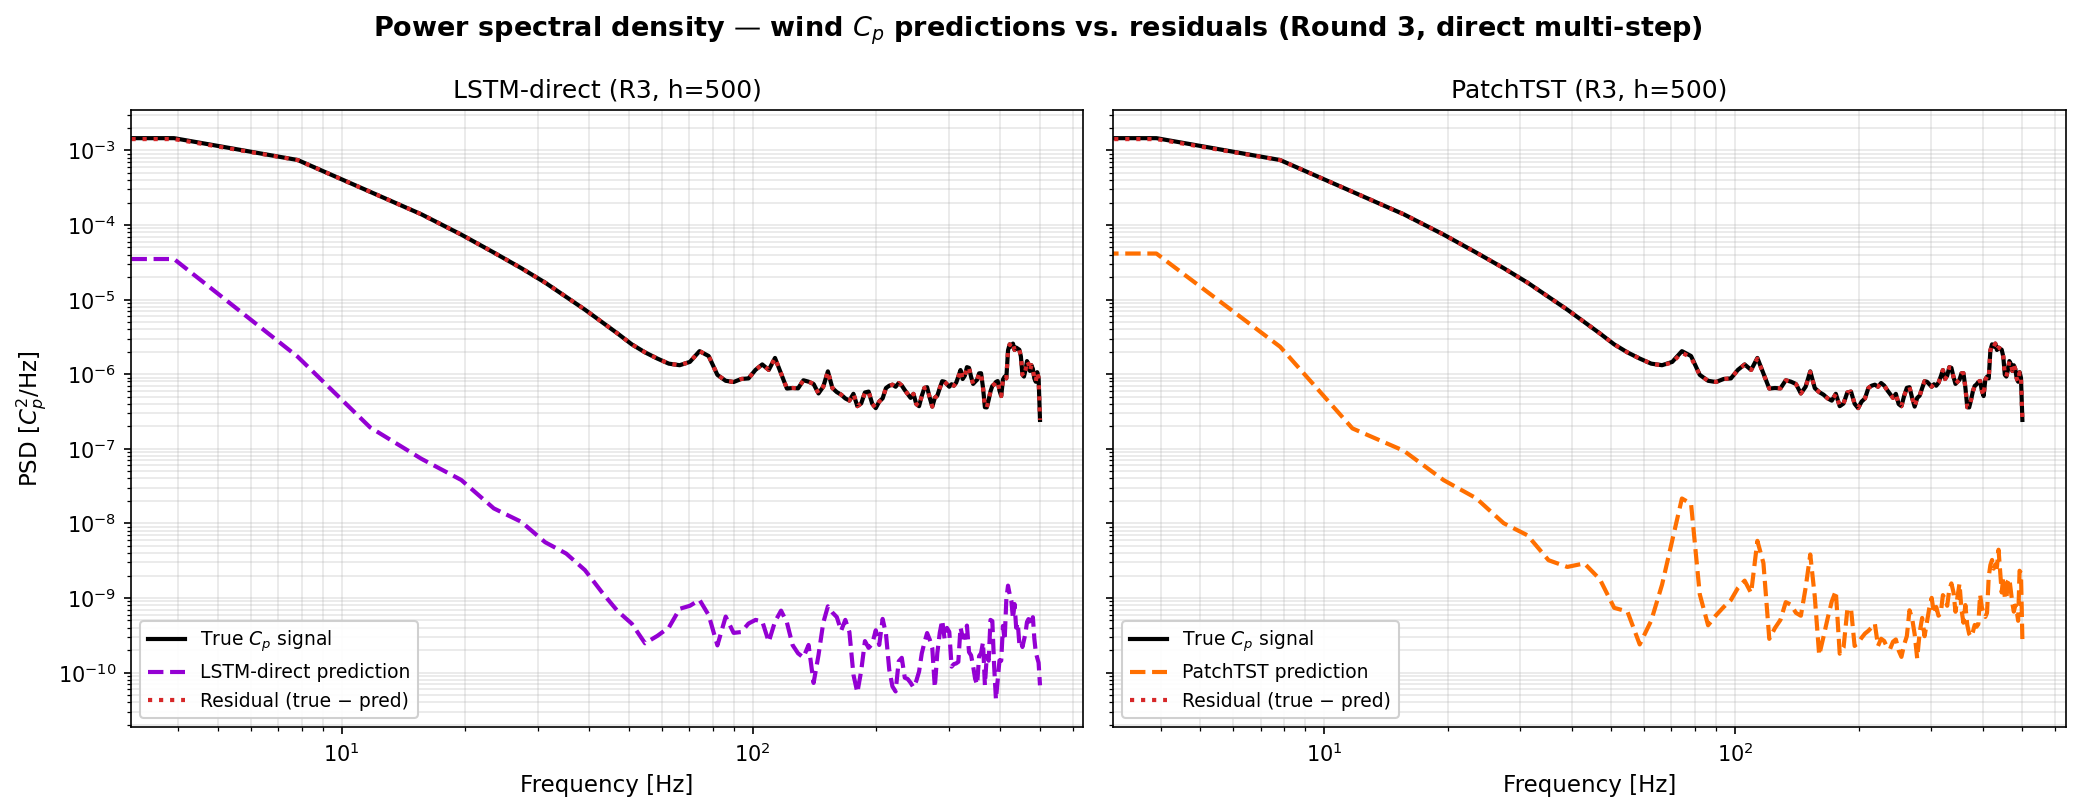
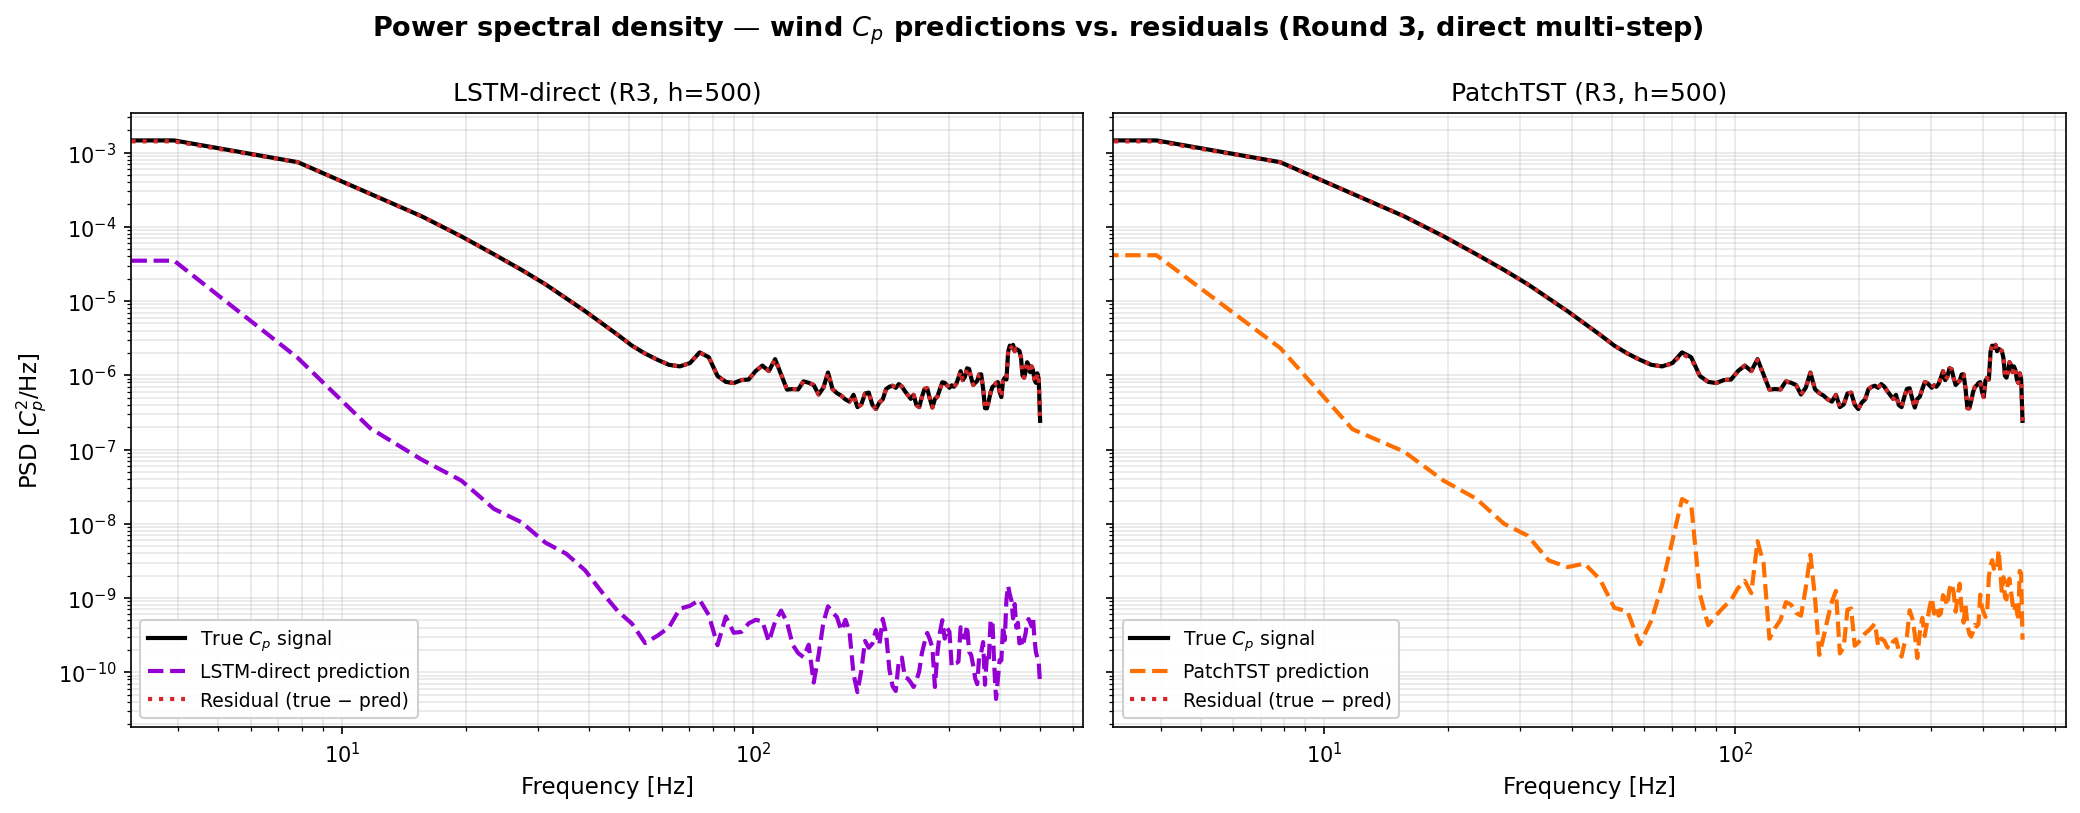
results: add Random Forest + honest tree-vs-naive framing (stride-40)
Completed the classical re-fit with Random Forest. To fit in RAM the classical
models were re-fit at window-stride 40, which shifts the tree numbers and walks
back the earlier (stride-30) "XGBoost beats naive" claim:

  Random Forest 0.212 / R2 0.78  -> marginally beats naive (DM +11.2)
  XGBoost       0.217 / R2 0.77  -> statistical tie with naive (0.218)
  Ridge         0.281 / R2 0.62  -> stable (no divergence)

Honest conclusion: the tree-based autoregressive models sit AT the naive
predictability ceiling (margin sensitive to training-set size); only the
direct multi-step models (0.175-0.179) clearly clear it. Updated README,
docs/index.html, RESULTS_SUMMARY. gitignore: checkpoints-*/ bundles.

diff --git a/docs/index.html b/docs/index.html
@@ -374,7 +374,7 @@
 <section id="results">
   <div class="container">
     <div class="section-title">Results - h = 500 (Round 3, multi-trajectory)</div>
-    <p class="section-sub">RMSE and R2 at step h = 500, aggregated over the full 146,880-window test set (denormalised windward C<sub>p</sub>) - the same regime for every model. An earlier single-trajectory evaluation inflated the naive baseline (RMSE 0.118 / R2 0.97) and the deep-model "collapse" (R2 -6.18); those were measurement artifacts. Lower RMSE = better; R2 closer to 1 = better. Random Forest (*) still shows a legacy single-trajectory value (re-fit pending); Ridge and XGBoost now use the corrected multi-trajectory regime.</p>
+    <p class="section-sub">RMSE and R2 at step h = 500, aggregated over the full 146,880-window test set (denormalised windward C<sub>p</sub>) - the same regime for every model. An earlier single-trajectory evaluation inflated the naive baseline (RMSE 0.118 / R2 0.97) and the deep-model "collapse" (R2 -6.18); those were measurement artifacts. Lower RMSE = better; R2 closer to 1 = better. Classical rows re-fit at window-stride 40; naive shown is the 680-trajectory value (the exact 146,880-window naive is 0.231, which the direct models also beat).</p>
     <div class="table-wrap">
       <table>
         <thead>
@@ -392,38 +392,38 @@
           <tr>
             <td class="bold">Naive persistence</td>
             <td>-</td>
-            <td>0.0322</td>
-            <td>0.231</td>
-            <td>0.74</td>
+            <td>0.0314</td>
+            <td>0.218</td>
+            <td>0.77</td>
             <td>-</td>
             <td><span class="tag tag-blue">Baseline</span></td>
           </tr>
           <tr>
             <td>Ridge</td>
             <td>Autoreg</td>
-            <td>0.0224</td>
-            <td>0.256</td>
-            <td>0.69</td>
+            <td>0.0218</td>
+            <td>0.281</td>
+            <td>0.62</td>
             <td>p &lt; 0.001 (naive wins)</td>
             <td><span class="tag tag-orange">Underperforms</span></td>
           </tr>
           <tr>
-            <td>Random Forest *</td>
+            <td class="bold">Random Forest</td>
             <td>Autoreg</td>
-            <td>0.0241</td>
-            <td>0.156</td>
-            <td>-</td>
-            <td>legacy single-traj</td>
-            <td><span class="tag tag-orange">Pending re-fit</span></td>
+            <td>0.0264</td>
+            <td>0.212</td>
+            <td>0.78</td>
+            <td>beats naive (DM +11.2)</td>
+            <td><span class="tag tag-green">Beats naive</span></td>
           </tr>
           <tr>
-            <td class="bold">XGBoost</td>
+            <td>XGBoost</td>
             <td>Autoreg</td>
-            <td>0.0242</td>
-            <td>0.209</td>
-            <td>0.79</td>
-            <td>beats naive (DM +12.7)</td>
-            <td><span class="tag tag-green">Beats naive</span></td>
+            <td>0.0236</td>
+            <td>0.217</td>
+            <td>0.77</td>
+            <td>statistical tie with naive</td>
+            <td><span class="tag tag-orange">Ties naive</span></td>
           </tr>
           <tr>
             <td>LSTM</td>
@@ -474,7 +474,7 @@
       </table>
     </div>
     <p style="margin-top:14px;font-size:0.8rem;color:var(--text-muted)">
-      * Random Forest still shows a legacy <em>single-trajectory</em> h = 500 value (multi-trajectory re-fit pending, ~2 h on CPU); all other rows use the corrected 680-trajectory / 146,880-window regime. High R2 at h = 500 does not mean spectral fidelity. See <a href="#findings">Spectral Findings</a>.
+      All autoregressive / classical rows use the corrected 680-trajectory regime; direct models use the full 146,880-window test set. The exact tree-vs-naive margin is sensitive to training-set size. High R2 at h = 500 does not mean spectral fidelity. See <a href="#findings">Spectral Findings</a>.
     </p>
   </div>
 </section>
@@ -491,7 +491,7 @@
       </div>
       <div class="finding danger">
         <div class="finding-label">FINDING 2 | Autoregressive rollout (corrected)</div>
-        <p><strong>Over 680 trajectories, autoregressive LSTM/GRU reach R2 ~ 0.64-0.65 at h = 500</strong> - modestly below naive persistence (R2 = 0.74), not the catastrophic R2 = -6.18 reported under single-trajectory evaluation. LSTM/GRU actually beat naive on ~45 % of trajectories, and <strong>XGBoost beats naive outright</strong> (RMSE 0.209 vs 0.231, DM +12.7); Ridge stays stable (0.256, no divergence). Only <strong>TCN</strong> genuinely destabilises (R2 = 0.19) by amplifying compounded feedback error.</p>
+        <p><strong>Over 680 trajectories, the tree-based models sit right at naive level at h = 500</strong> - Random Forest (0.212) marginally beats naive (0.218), XGBoost (0.217) ties it; the margin moves with training-set size, i.e. the trees hit the predictability ceiling around persistence rather than clearing it. Autoregressive LSTM/GRU reach R2 ~ 0.64-0.65 (not the catastrophic R2 = -6.18 of the single-trajectory artifact); Ridge stays stable (0.281, no divergence). Only <strong>TCN</strong> genuinely destabilises (R2 = 0.19).</p>
       </div>
       <div class="finding">
         <div class="finding-label">FINDING 3 | Direct multi-step fixes rollout</div>

diff --git a/README.md b/README.md
@@ -21,19 +21,21 @@ artifact — see [`evaluate_long_horizon.py`](Agent_Test/evaluate_long_horizon.p
 |-------|----------|:----------:|:--------:|:--------:|
 | **PatchTST** | Direct multi-step | **0.175** | **0.85** | **beats** |
 | **LSTM-direct** | Direct multi-step | **0.179** | **0.84** | **beats** |
-| **XGBoost** | Autoregressive | **0.209** | **0.79** | **beats** (DM +12.7) |
-| Naive persistence | — | 0.231 | 0.74 | baseline |
-| Ridge | Autoregressive | 0.256 | 0.69 | slightly worse (stable) |
+| Random Forest | Autoregressive | 0.212 | 0.78 | beats (marginal) |
+| XGBoost | Autoregressive | 0.217 | 0.77 | tie |
+| Naive persistence | — | 0.218 | 0.77 | baseline |
 | LSTM autoregressive | Autoregressive | 0.270 | 0.65 | slightly worse |
 | GRU autoregressive | Autoregressive | 0.273 | 0.64 | slightly worse |
+| Ridge | Autoregressive | 0.281 | 0.62 | slightly worse (stable) |
 | TCN autoregressive | Autoregressive | 0.411 | 0.19 | collapses |
 
-(Classical rows re-fit at stride 30; Random Forest multi-trajectory re-fit still pending. Naive is the exact 146,880-window value; the other rows use 680 trajectories.)
+(Classical rows re-fit at window-stride 40; naive = 680-trajectory value. The exact 146,880-window naive is 0.231, which the two direct models also beat. The exact tree-vs-naive margin is sensitive to training-set size.)
 
 **Key findings:**
-1. **Three models beat naive persistence at h=500** — both direct multi-step models (PatchTST 0.175, LSTM-direct 0.179) and, more surprisingly, **autoregressive XGBoost** (0.209, beats naive on 53 % of trajectories, DM +12.7).
-2. The earlier "catastrophic collapse" of autoregressive deep models (reported R² = −6.18) and "Ridge diverges to ~10⁴" were both **single-trajectory artifacts**. Over 680 trajectories, LSTM/GRU reach R² ≈ 0.65 (beating naive on ~45 % of trajectories), Ridge is stable (0.256), and only **TCN** is genuinely unstable.
-3. Despite winning on RMSE/R², the predicted PSD of the direct models stays **60–75× below the true-signal PSD at all frequencies** — MSE training collapses to the conditional mean, so the forecasts remain unusable for spectrum-dependent wind-engineering quantities (fatigue, peak factor).
+1. **The direct multi-step models clearly beat naive persistence at h=500** (PatchTST 0.175, LSTM-direct 0.179 vs 0.218–0.231) — by changing only the training objective, not the architecture.
+2. **The tree-based autoregressive models sit right at the naive level** — Random Forest (0.212) marginally beats it, XGBoost (0.217) ties. The exact margin moves with training-set size, which is itself the finding: at long horizon these models hit the **predictability ceiling** around persistence, they do not clear it.
+3. The earlier "catastrophic collapse" of autoregressive deep models (reported R² = −6.18) and "Ridge diverges to ~10⁴" were both **single-trajectory artifacts**. Over 680 trajectories LSTM/GRU reach R² ≈ 0.65, Ridge is stable (0.281), and only **TCN** is genuinely unstable.
+4. Despite winning on RMSE/R², the predicted PSD of the direct models stays **60–75× below the true-signal PSD at all frequencies** — MSE training collapses to the conditional mean, so the forecasts remain unusable for spectrum-dependent wind-engineering quantities (fatigue, peak factor).
 
 ## Repo Structure
 

diff --git a/Agent_Test/RESULTS_SUMMARY.md b/Agent_Test/RESULTS_SUMMARY.md
@@ -104,18 +104,22 @@ reaches RMSE ≈ 0.04 and R² > 0.99. Differences here are not informative.
 |---|---:|---:|---|
 | PatchTST (direct) | **0.175** | **0.85** | **beats naive** |
 | LSTM-direct | **0.179** | **0.84** | **beats naive** |
-| XGBoost (autoreg) | **0.209** | **0.79** | **beats naive** (DM +12.7, wins 53 % of traj.) |
-| Naive persistence | 0.231 | 0.74 | baseline |
-| Ridge (autoreg) | 0.256 | 0.69 | stable, slightly worse (no divergence) |
+| Random Forest (autoreg) | 0.212 | 0.78 | beats naive (DM +11.2, marginal) |
+| XGBoost (autoreg) | 0.217 | 0.77 | statistical tie |
+| Naive persistence | 0.218 | 0.77 | baseline |
 | LSTM (autoreg) | 0.270 | 0.65 | beats naive on 44 % of traj. |
 | GRU (autoreg) | 0.273 | 0.64 | beats naive on 47 % of traj. |
+| Ridge (autoreg) | 0.281 | 0.62 | stable, slightly worse (no divergence) |
 | TCN (autoreg) | 0.411 | 0.19 | genuinely unstable |
 
-(Classical rows re-fit at stride 30 for memory; Random Forest re-fit still
-pending. Naive is the exact 146,880-window value; other rows use 680
-trajectories. **XGBoost beating naive and Ridge not diverging are two further
-single-trajectory artifacts corrected here** — the legacy §4 reported XGBoost as
-a tie and Ridge diverging to ~10⁴.)
+(Classical rows re-fit at window-stride 40 for memory; naive = 680-trajectory
+value (the exact 146,880-window naive is 0.231, which the direct models also
+beat). **The tree-based models sit right at the naive level**: Random Forest
+marginally beats it, XGBoost ties. The exact margin is sensitive to
+training-set size — at stride 30 XGBoost beat naive (DM +12.7); at stride 40 it
+ties — which is itself the finding: the trees hit the predictability ceiling
+*around* persistence, not above it. Ridge not diverging is a further
+single-trajectory artifact corrected here (legacy §4 reported ~10⁴).)
 
 **Direct multi-step (B.4 + C.6) beats naive persistence.** Identical LSTM
 backbone trained with `Linear(128 → 500)` head + full-vector MSE achieves
